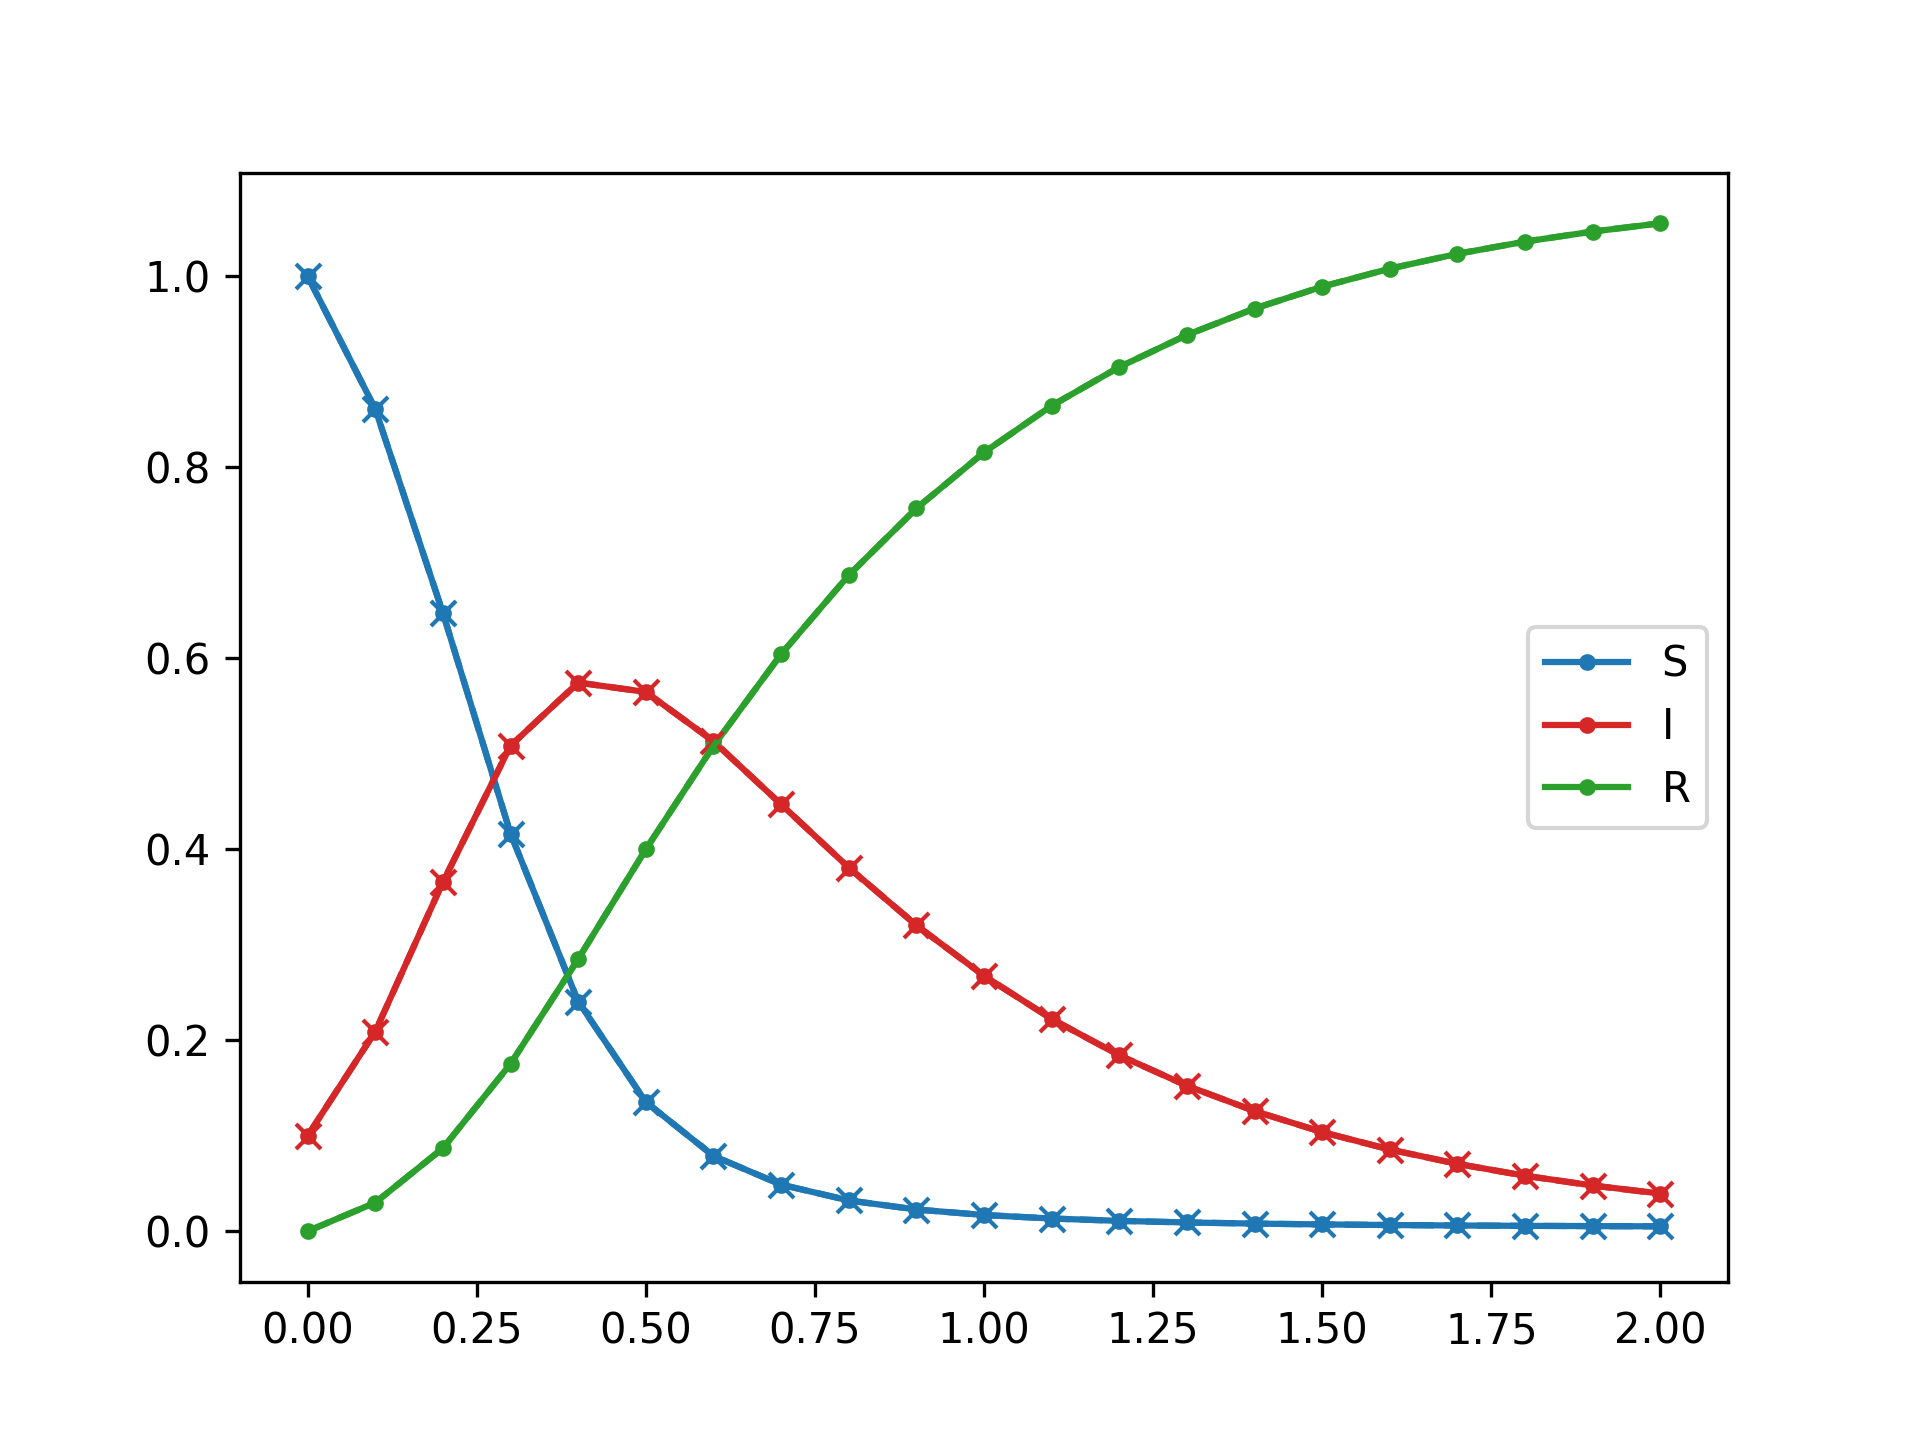
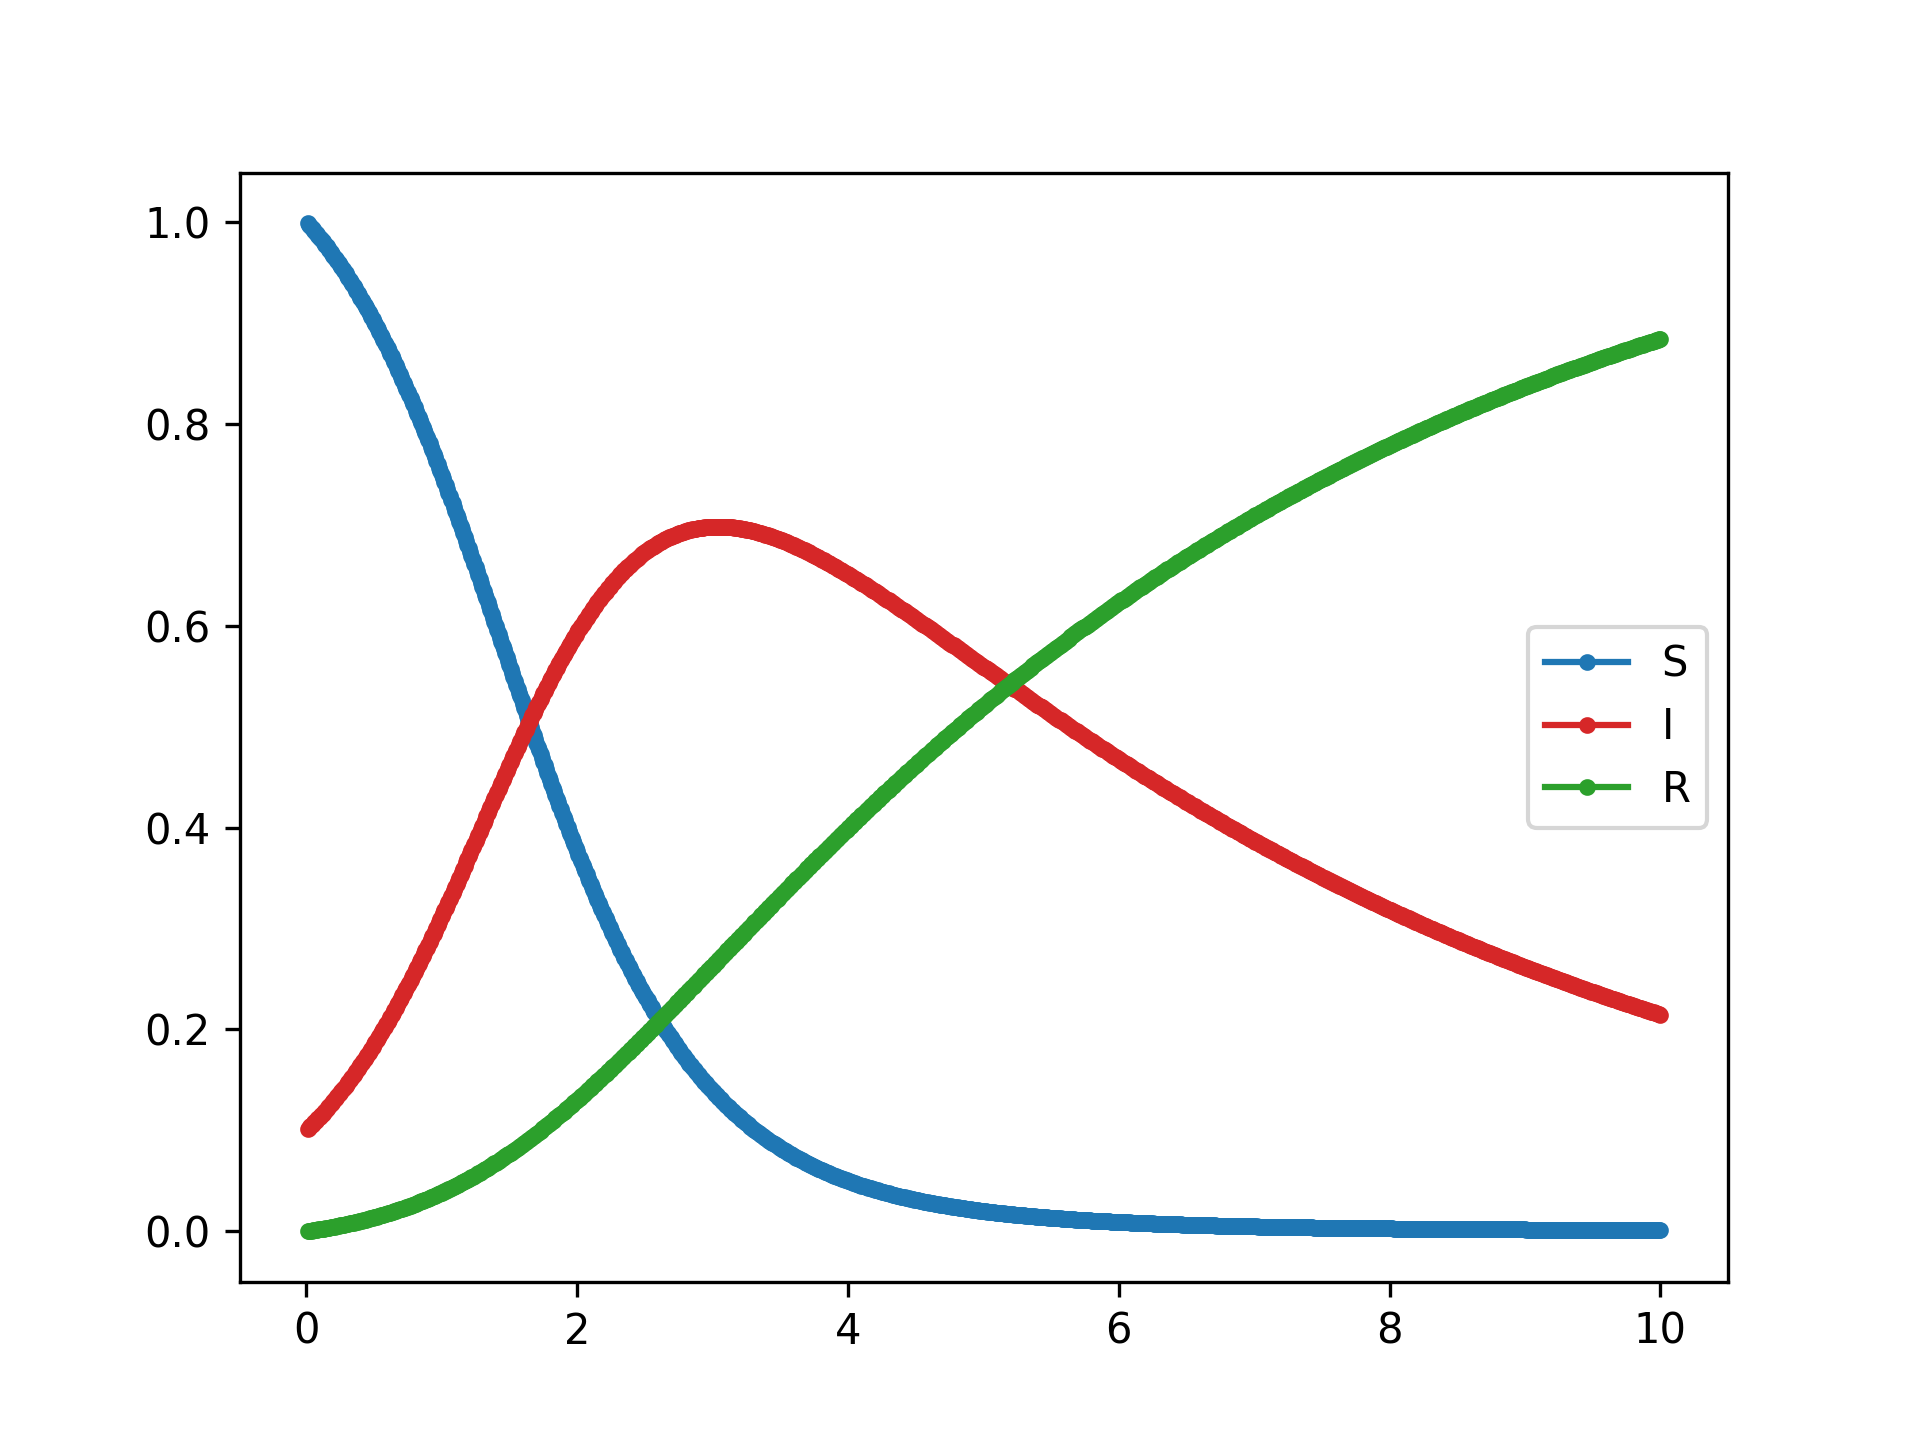
sir experiment

diff --git a/experiments/odes/sir.py b/experiments/odes/sir.py
@@ -1,0 +1,147 @@
+import argparse
+import time
+
+import diffrax as dfx
+import equinox as eqx
+import jax
+import jax.numpy as jnp
+import jax.random as jr
+import matplotlib.pyplot as plt
+import optax
+
+from reversible import SIR
+
+jax.config.update("jax_enable_x64", True)
+
+
+class VectorField(eqx.Module):
+    layers: list
+
+    def __init__(self, key):
+        key1, key2 = jr.split(key, 2)
+        self.layers = [
+            eqx.nn.Linear(3, 10, use_bias=True, key=key1),
+            eqx.nn.Linear(10, 3, use_bias=True, key=key2),
+        ]
+
+    def __call__(self, t, y, args):
+        for layer in self.layers[:-1]:
+            y = layer(y)
+            y = jnp.tanh(y)
+        y = self.layers[-1](y)
+        return y
+
+
+def solve_data(args):
+    solver = dfx.Tsit5()
+    saveat = dfx.SaveAt(steps=True)
+    term = dfx.ODETerm(SIR)
+    y0 = jnp.array([1.0, 0.1, 0.0])
+    t0 = 0
+    t1 = 10
+    dt0 = 0.01
+    n_steps = int((t1 - t0) / dt0)
+    sol = dfx.diffeqsolve(
+        term,
+        solver,
+        t0=t0,
+        t1=t1,
+        dt0=dt0,
+        y0=y0,
+        args=args,
+        saveat=saveat,
+        adjoint=dfx.ReversibleAdjoint(),
+    )
+    ts = sol.ts[:n_steps]
+    ys = sol.ys[:n_steps]
+
+    return ts, ys
+
+
+def solve(vf, adjoint):
+    solver = dfx.Tsit5()
+    saveat = dfx.SaveAt(steps=True)
+    term = dfx.ODETerm(vf)
+    y0 = jnp.array([1.0, 0.1, 0.0])
+    t0 = 0
+    t1 = 10
+    dt0 = 0.01
+    n_steps = int((t1 - t0) / dt0)
+    sol = dfx.diffeqsolve(
+        term,
+        solver,
+        t0=t0,
+        t1=t1,
+        dt0=dt0,
+        y0=y0,
+        args=args,
+        saveat=saveat,
+        adjoint=adjoint,
+    )
+    ts = sol.ts[:n_steps]
+    ys = sol.ys[:n_steps]
+
+    return ts, ys
+
+
+def plot(model, adjoint):
+    ts, SIR = solve(model, adjoint)
+    # args = (jnp.asarray(1.5), jnp.asarray(0.2))
+    # ts, SIR = solve_data(args)
+    plt.plot(ts, SIR[:, 0], ".-", color="tab:blue", label="S")
+    plt.plot(ts, SIR[:, 1], ".-", color="tab:red", label="I")
+    plt.plot(ts, SIR[:, 2], ".-", color="tab:green", label="R")
+
+    plt.legend()
+    plt.savefig("../../data/imgs/sir_pred.png", dpi=300)
+
+
+@eqx.filter_value_and_grad
+def grad_loss(vf, data, adjoint):
+    _, ys = solve(vf, adjoint)
+    return jnp.mean((data - ys) ** 2)
+
+
+@eqx.filter_jit
+def make_step(vf, data, adjoint, optim, opt_state):
+    loss, grads = grad_loss(vf, data, adjoint)
+    updates, opt_state = optim.update(grads, opt_state, vf)
+    vf = eqx.apply_updates(vf, updates)
+    return loss, vf, opt_state
+
+
+if __name__ == "__main__":
+    parser = argparse.ArgumentParser()
+    parser.add_argument("--checkpoints", required=True)
+    script_args = parser.parse_args()
+    checkpoints = int(script_args.checkpoints)
+
+    args = (jnp.asarray(1.5), jnp.asarray(0.2))
+    _, data = solve_data(args)
+
+    vf = VectorField(jr.PRNGKey(0))
+    adjoint = dfx.RecursiveCheckpointAdjoint(checkpoints)
+    # adjoint = dfx.ReversibleAdjoint()
+
+    lr = 1e-2
+    weight_decay = 1e-5
+    optim = optax.adamw(lr, weight_decay=weight_decay)
+    opt_state = optim.init(eqx.filter(vf, eqx.is_inexact_array))
+
+    tic = time.time()
+    loss, vf, opt_state = make_step(vf, data, adjoint, optim, opt_state)
+    toc = time.time()
+    print(f"Compilation time: {toc - tic}")
+
+    tic = time.time()
+    steps = 1000
+    for step in range(steps):
+        loss, vf, opt_state = make_step(vf, data, adjoint, optim, opt_state)
+        if step % 100 == 0 or step == steps - 1:
+            print(f"Step: {step}, Loss: {loss}")
+    toc = time.time()
+    with open("sir.txt", "a") as file:
+        print(f"{adjoint}, runtime: {toc - tic}, loss: {loss:.8f}", file=file)
+
+    eqx.tree_serialise_leaves("../../data/models/vf_sir.eqx", vf)
+    plot(vf, adjoint)

diff --git a/reversible/_odes.py b/reversible/_odes.py
@@ -1,7 +1,12 @@
+import jax.numpy as jnp
+
+
 def SIR(t, y, args):
     beta, gamma = args
-    S, I, R = y
+    S = y[0]
+    I = y[1]
+    R = y[2]
     dyS = -beta * I * S
     dyI = beta * I * S - gamma * I
     dyR = gamma * I
-    return (dyS, dyI, dyR)
+    return jnp.array([dyS, dyI, dyR])
